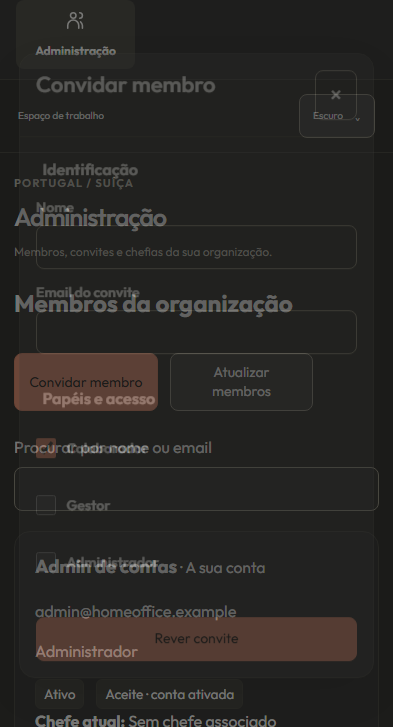
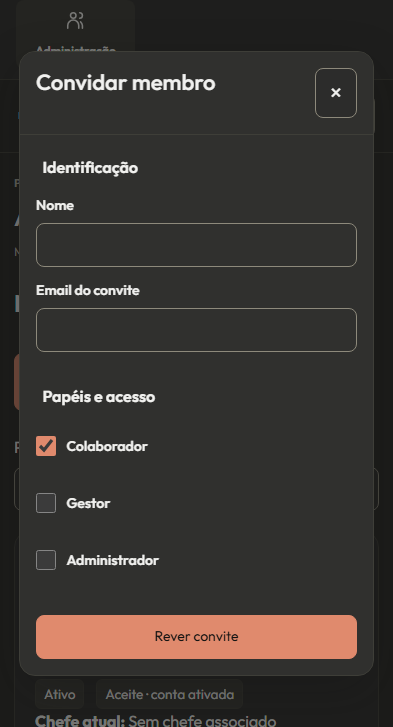
test(HO-020): capture completed dialog transitions for visual review

diff --git a/apps/web/tests/ui-refinement.spec.ts b/apps/web/tests/ui-refinement.spec.ts
@@ -29,6 +29,7 @@ test("invitation labels and checkboxes fit, and editor selects retain keyboard f
     await page.screenshot({
       path: `test-results/ho020-${info.project.name}-${mode}-invite.png`,
       fullPage: false,
+      animations: "disabled",
       scale: "css",
     });
     await modal
@@ -57,6 +58,7 @@ test("invitation labels and checkboxes fit, and editor selects retain keyboard f
     await page.screenshot({
       path: `test-results/ho020-${info.project.name}-${mode}-calendar.png`,
       fullPage: false,
+      animations: "disabled",
       scale: "css",
     });
     await page.getByRole("button", { name: /Pedir os meus dias/ }).click();
@@ -82,6 +84,7 @@ test("invitation labels and checkboxes fit, and editor selects retain keyboard f
     await page.screenshot({
       path: `test-results/ho020-${info.project.name}-${mode}-dropdown.png`,
       fullPage: false,
+      animations: "disabled",
       scale: "css",
     });
     await page.keyboard.press("End");
@@ -98,6 +101,7 @@ test("invitation labels and checkboxes fit, and editor selects retain keyboard f
     await page.screenshot({
       path: `test-results/ho020-${info.project.name}-${mode}-editor.png`,
       fullPage: false,
+      animations: "disabled",
       scale: "css",
     });
     const remove = modal.getByRole("button", {
@@ -124,6 +128,7 @@ test("invitation labels and checkboxes fit, and editor selects retain keyboard f
     await page.screenshot({
       path: `test-results/ho020-${info.project.name}-${mode}-notifications.png`,
       fullPage: false,
+      animations: "disabled",
       scale: "css",
     });
   }
